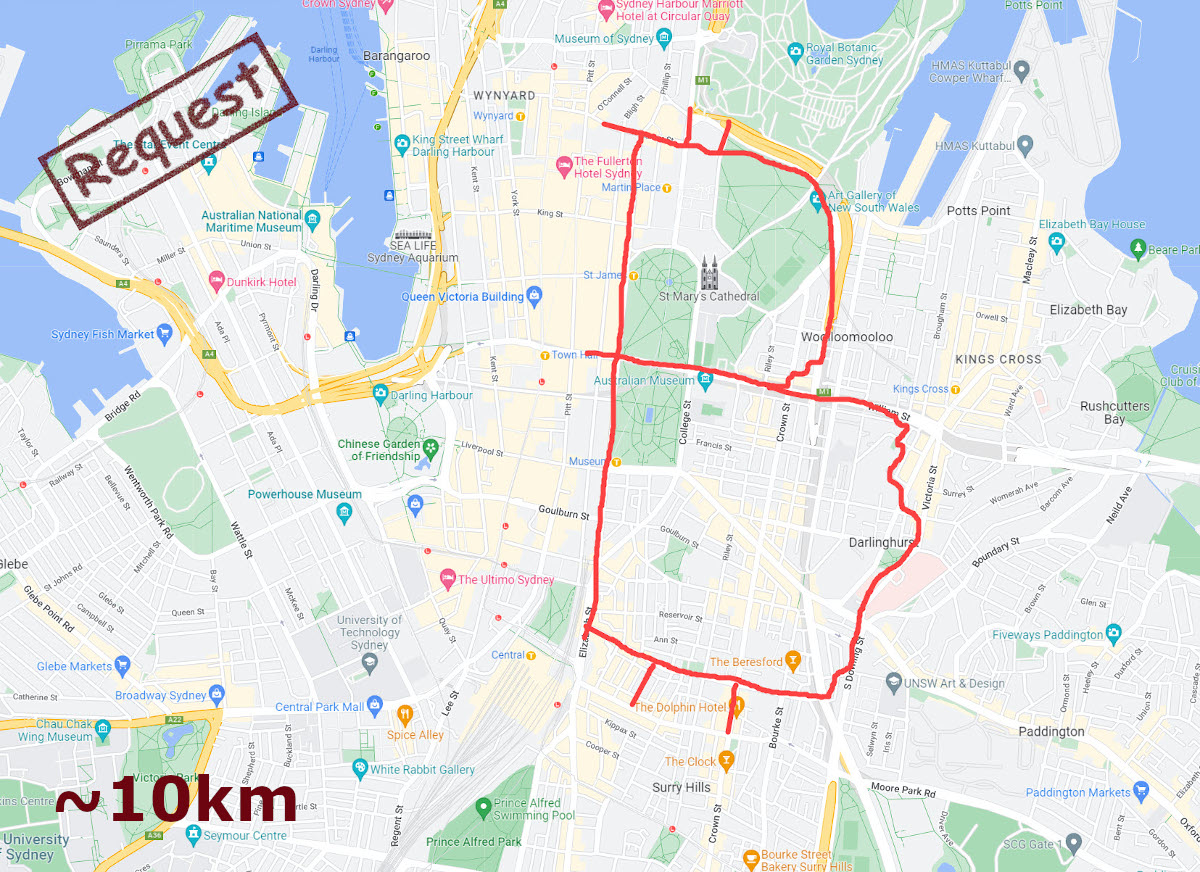
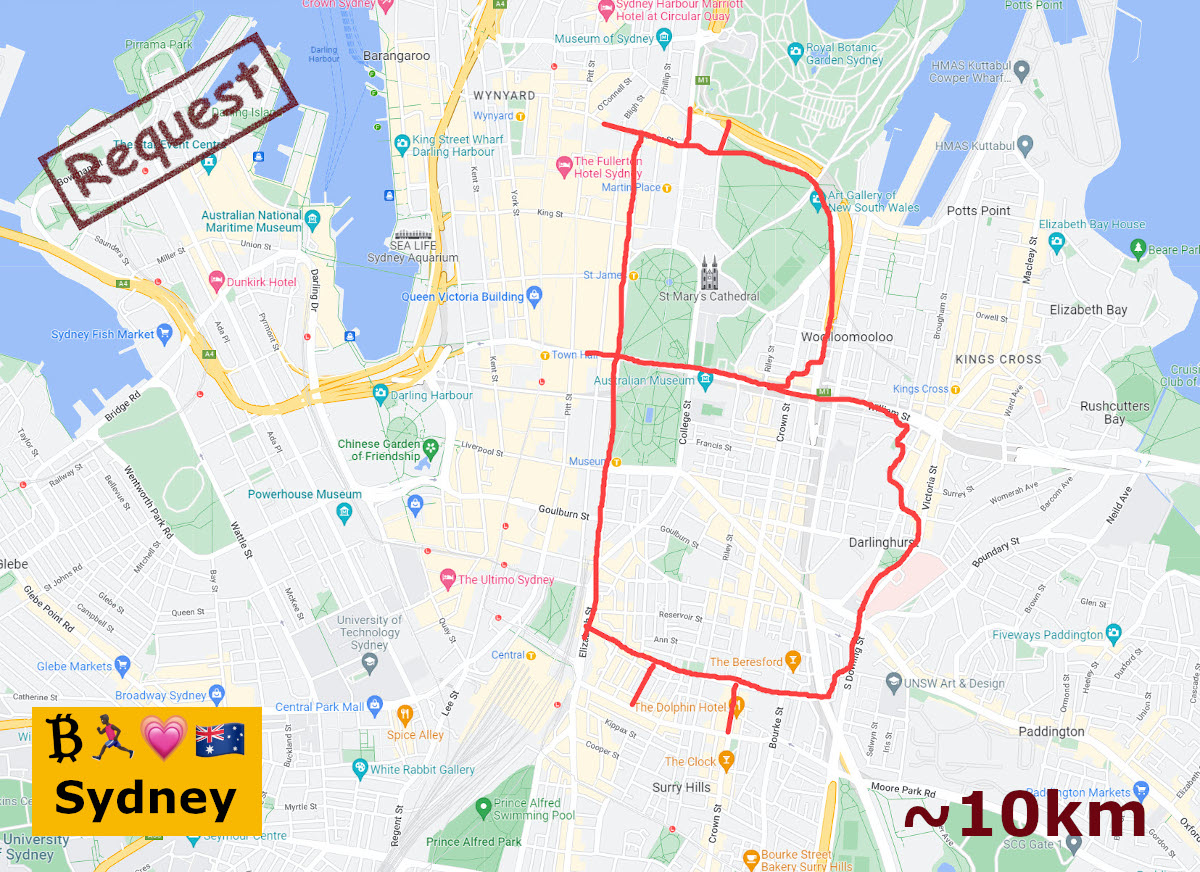
update proposals.md file

Changed region(s): [[0.0, 0.805, 0.2467, 0.9599], [0.74, 0.8979, 0.9558, 0.9599]]

diff --git a/_pages/proposals.md b/_pages/proposals.md
@@ -33,6 +33,10 @@ gallery:
     image_path: /assets/images/runs/paris/sketch/paris-bitcoin-run-sketch-1200x719.jpeg
     alt: "Paris Bitcoin Run Sketch"
     title: "Paris Bitcoin Run Sketch"
+  - url: /sacramento/
+    image_path: /assets/images/runs/requests/sacramento/sketch/sacramento-sketch.jpg
+    alt: "Sacramento Bitcoin run sketch"
+    title: "Sacramento Bitcoin run sketch"
   - url: /seattle/
     image_path: /assets/images/runs/seattle/sketch/seattle-brun-sketch-1200x900.png
     alt: "Seattle Bitcoin run sketch"
@@ -45,6 +49,10 @@ gallery:
     image_path: /assets/images/runs/singapore/sketch/singapore-brun-sketch-1200x900.png
     alt: "Singapore Bitcoin run sketch"
     title: "Singapore Bitcoin run sketch"
+  - url: /sydney/
+    image_path: /assets/images/runs/requests/sydney/sketch/sydney-sketch.jpg
+    alt: "Sydney Bitcoin run sketch"
+    title: "Sydney Bitcoin run sketch"
   - url: /washington-dc/
     image_path: /assets/images/runs/washington/sketch/washington-dc-short-version.jpeg
     alt: "Washington D.C. Bitcoin Run Sketch"

diff --git a/_pages/requests/sacramento-request.md b/_pages/requests/sacramento-request.md
@@ -1,0 +1,13 @@
+---
+layout: single
+title: Sacramento Bitcoin Run Request ₿ 🏃♂ 🇺🇸
+header:
+  og_image: /assets/images/runs/requests/sacramento/sketch/sacramento-sketch.jpg
+permalink: /sacramento/
+---
+
+{% include sketch-page.html city="Sacramento" sketch_image="/assets/images/runs/requests/sacramento/sketch/sacramento-sketch.jpg" %} 
+
+{% include donate.html %}  
+  
+  
